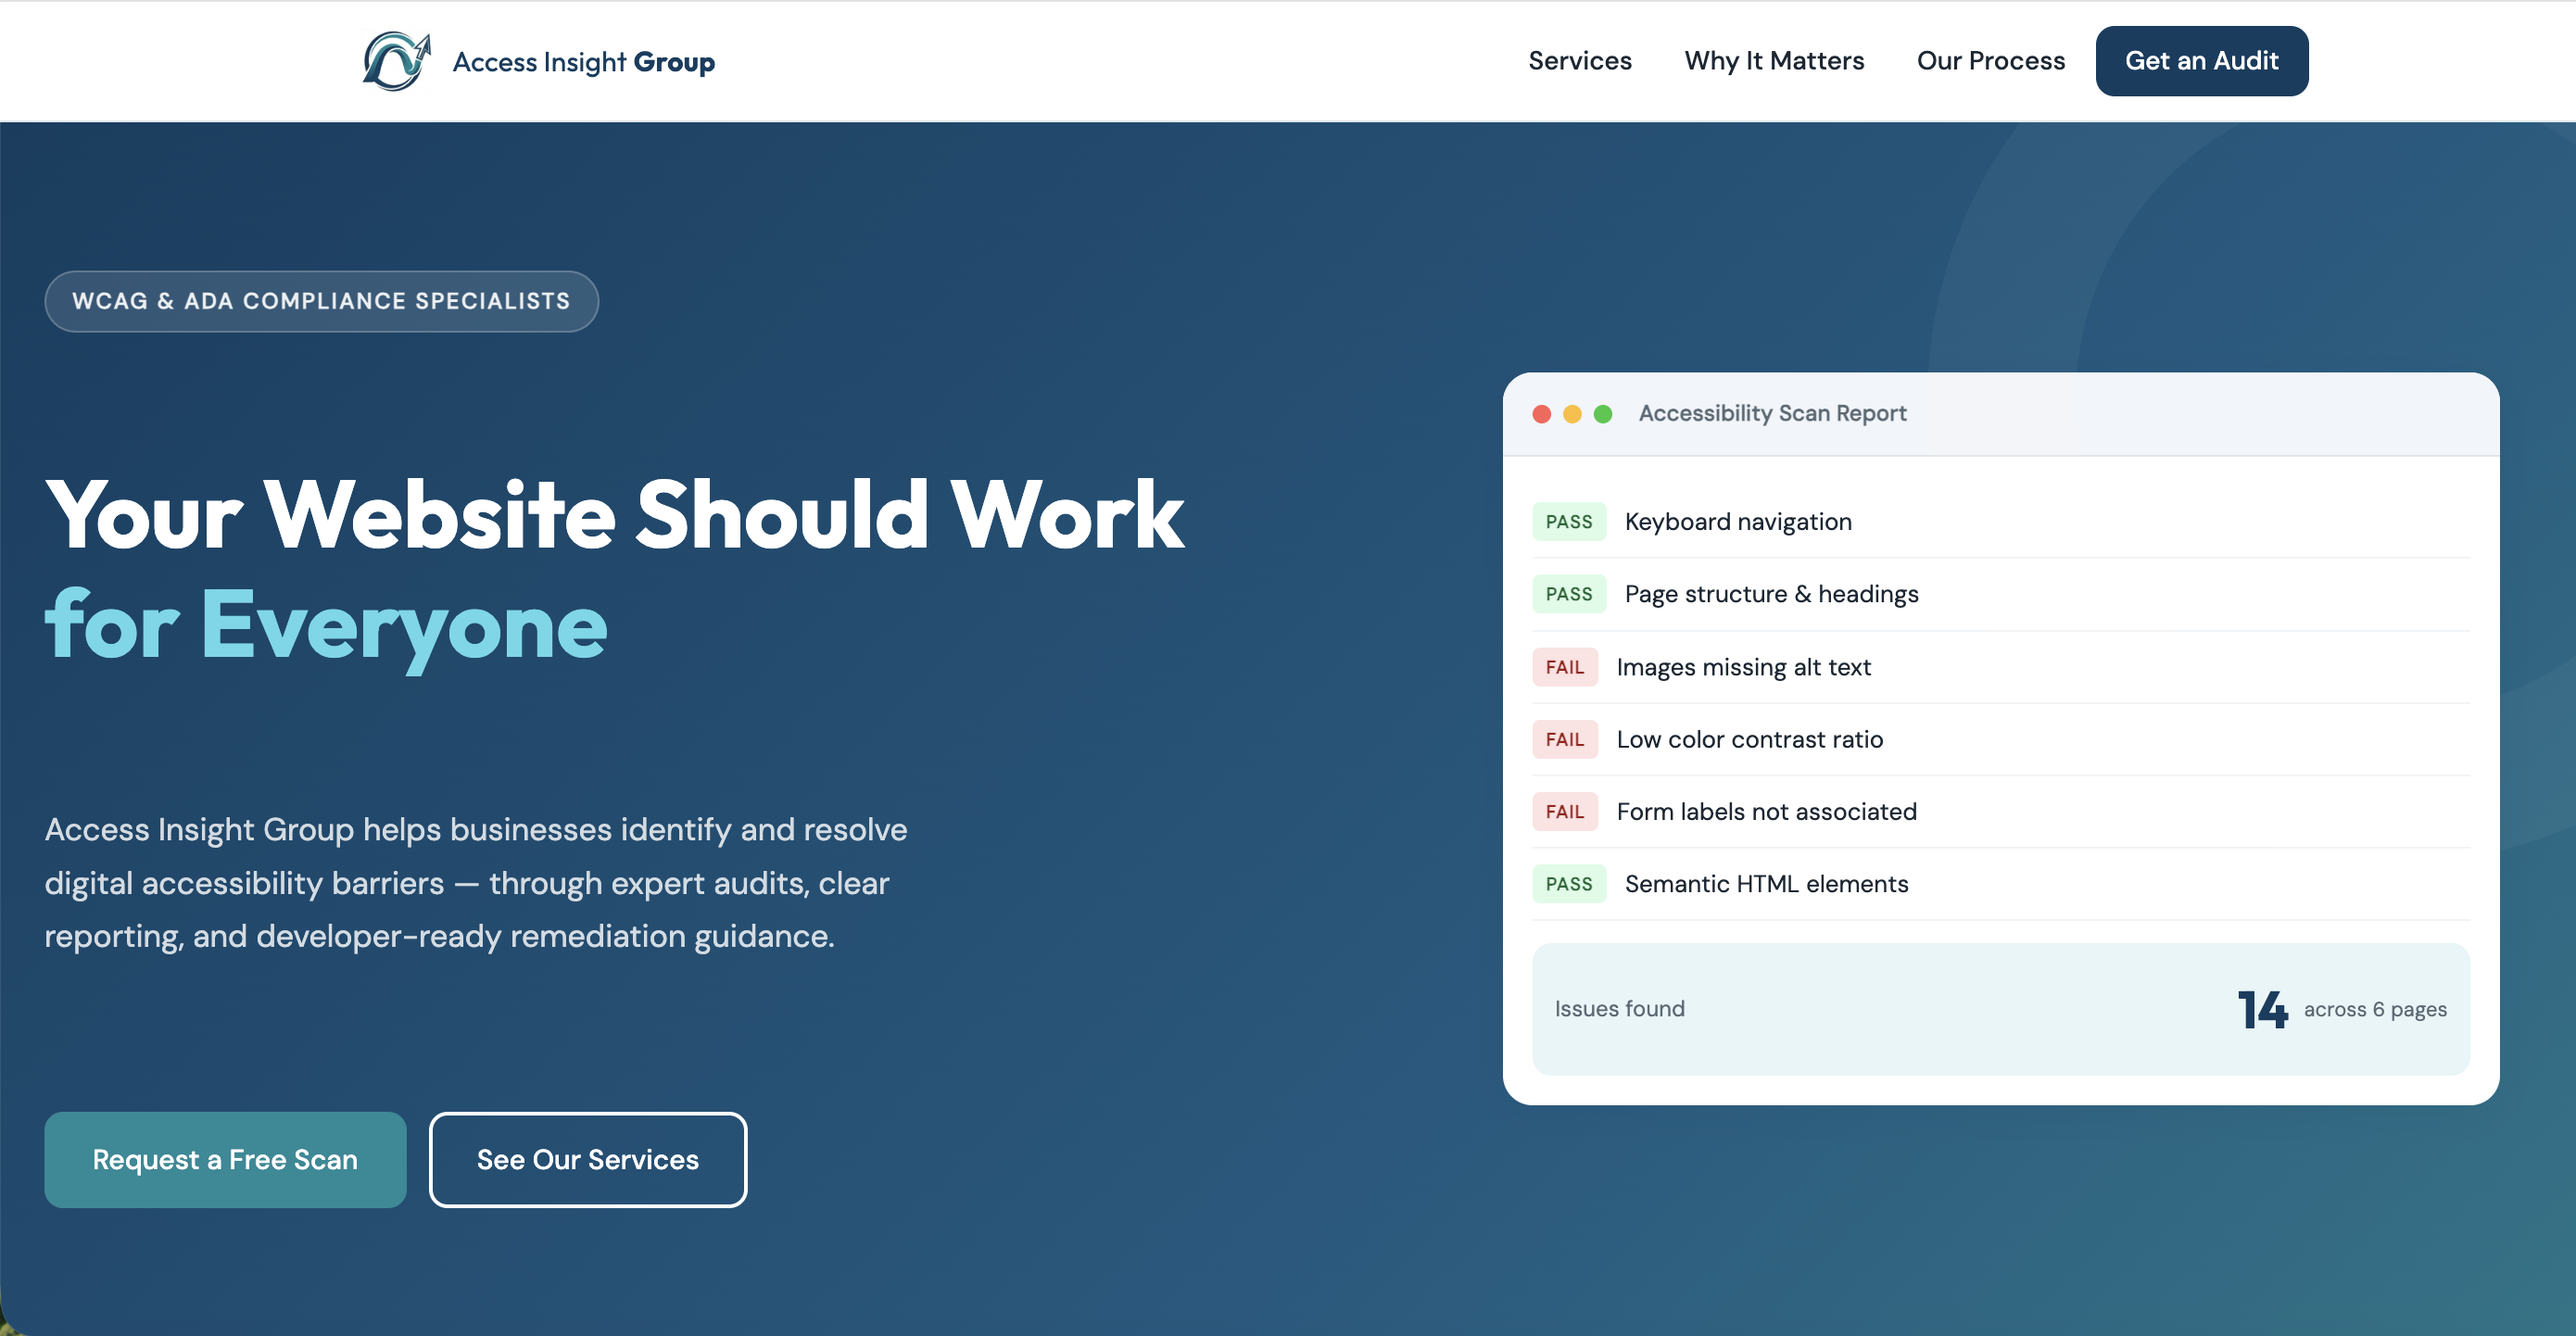
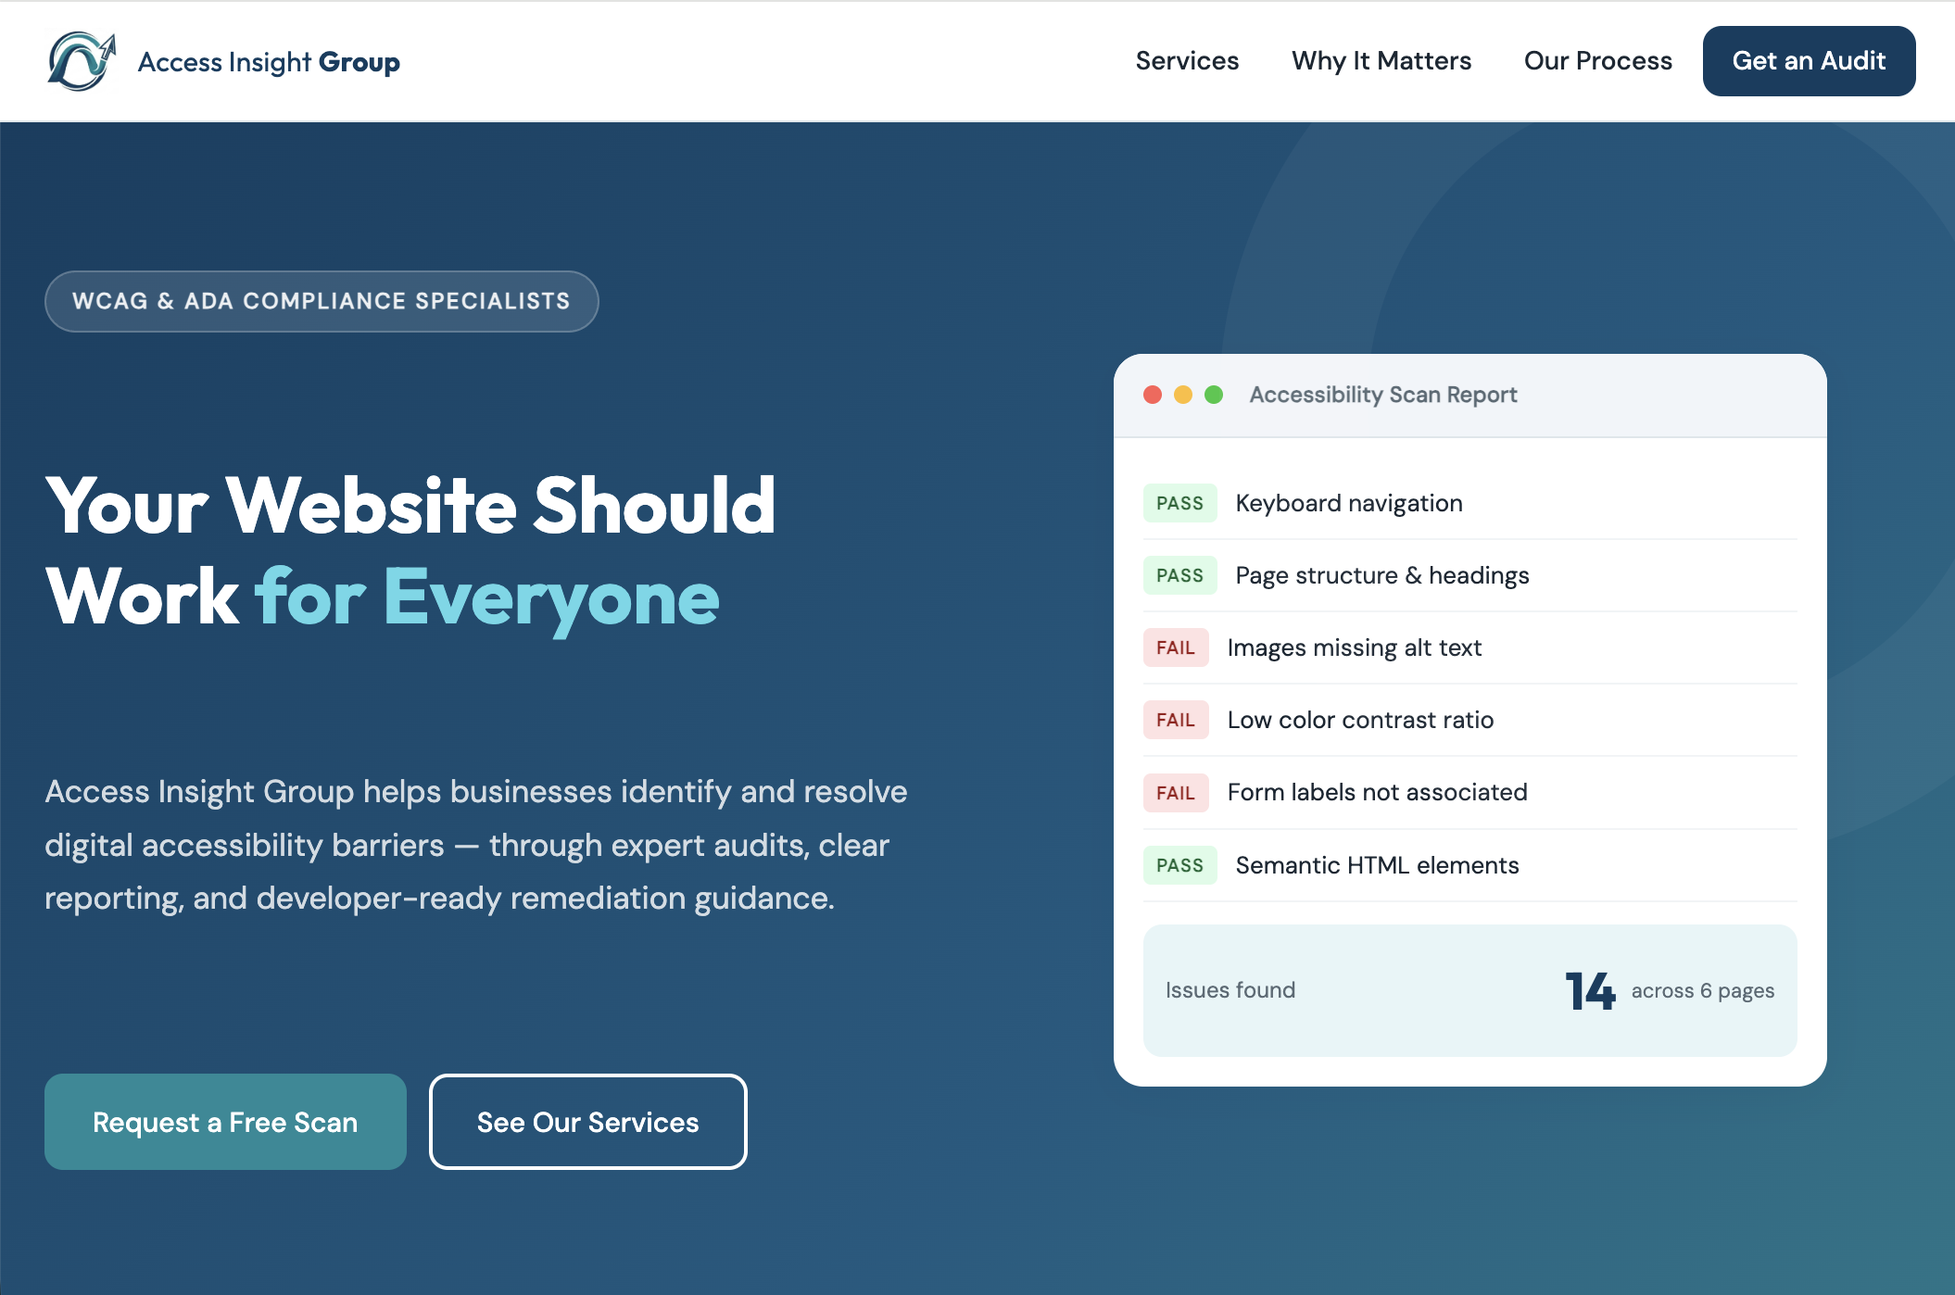
Link AIG screenshot to accessinsightgroup.com and update screenshot crop

diff --git a/index.html b/index.html
@@ -200,7 +200,7 @@
           <div class="project-card featured">
             <div class="project-badge">Featured</div>
             <div class="project-visual project-screenshot">
-              <img src="images/aig-home-page-screenshot.png" alt="Access Insight Group homepage screenshot" />
+              <a href="https://www.accessinsightgroup.com/" target="_blank" rel="noopener"><img src="images/aig-home-page-screenshot.png" alt="Access Insight Group homepage screenshot" /></a>
             </div>
             <div class="project-info">
               <h3><a href="https://www.accessinsightgroup.com/" target="_blank" rel="noopener">Access Insight Group</a></h3>
